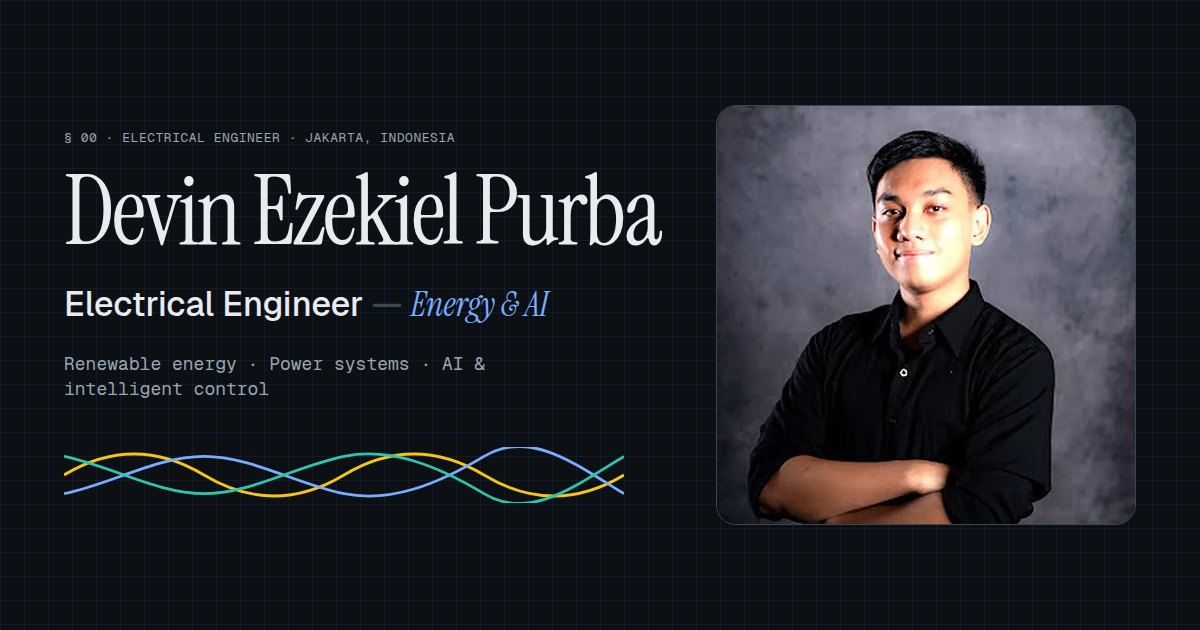
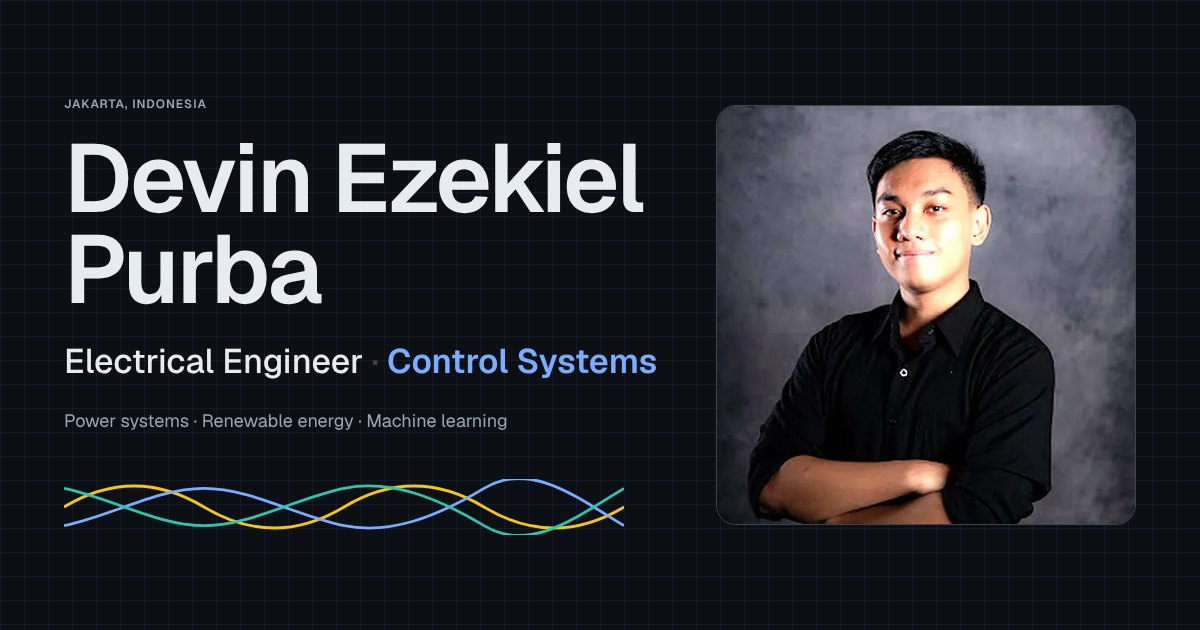
Control systems headline, card crops that cut no text (#14)
Headline is now "Electrical Engineer · Control Systems" with the tagline "Power systems · Renewable energy · Machine learning"; About says he majored in Electrical Engineering with a Control Systems and Automation concentration; link preview regenerated. Card crops no longer cut text and load sharp images; cards show the theme instead of "Client work". Name card links have 24 px targets.

Claude-Session: https://claude.ai/code/session_011Ti8oFmYrut7UsPeqjafuj

diff --git a/website/tests/site.spec.ts b/website/tests/site.spec.ts
@@ -175,6 +175,25 @@ test("project lead figures show the whole image", async ({ page }) => {
   }
 });
 
+test("zoomed card covers load an image wide enough to stay sharp", async ({ page }, info) => {
+  test.skip(info.project.name !== "desktop", "desktop cards at device scale 1");
+  await page.goto("projects/");
+  const covers = page.locator(".card .cover.cropped img");
+  expect(await covers.count()).toBeGreaterThanOrEqual(1);
+  for (const img of await covers.all()) {
+    await img.scrollIntoViewIfNeeded();
+    await img.evaluate((el: HTMLImageElement) => el.decode());
+    // object-fit: cover widens figures wider than the card, then --zoom enlarges them; the file must cover that width.
+    const [natural, drawn] = await img.evaluate((el: HTMLImageElement) => {
+      const zoom = Number(getComputedStyle(el.closest(".cover")!).getPropertyValue("--zoom"));
+      const cover = Math.max(el.offsetWidth, (el.offsetHeight * el.naturalWidth) / el.naturalHeight);
+      return [el.naturalWidth, cover * zoom];
+    });
+    const href = await img.evaluate((el) => el.closest("a")?.getAttribute("href") ?? "");
+    expect(natural, href).toBeGreaterThanOrEqual(drawn * 0.95);
+  }
+});
+
 test("acronyms are expanded once, at first use", async ({ page }) => {
   await page.goto("projects/pumped-storage-dfim-model/");
   await expect(page.locator('abbr:text-is("DFIM")')).toHaveCount(1);

diff --git a/docs/website/03-work-log.md b/docs/website/03-work-log.md
@@ -385,3 +385,21 @@ Research in `docs/card/01-research.md`, build notes in `docs/card/02-build.md` (
   6. Stacked prev/next cards on phones: the right-aligned "Next" title read raggedly over three lines; left-aligned when stacked.
 - **Left as is, for Devin to decide**: some card crops cut a diagram label at the top edge (synchronous condenser, PV, excitation); "Client work" repeats on every card in the Client work section; "My part" appears in the header and again in the datasheet; the graduation photo on Education is about 680 px tall on desktop; the phone footer repeats the whole navigation.
 - **Checks**: check 0 errors; 21 pages; Playwright 94 passed, 4 skipped; `measure.mjs` 0 small text, 0 small targets, 0 em dashes; overflow none at all ten widths; every fix viewed after the change.
+
+## 2026-10-14 · Card crops and card labels
+- **Asked by Devin** after the visual check: fix the card crops that cut labels, and drop the repeated "Client work" label.
+- **Crops**: every client card cover was rendered next to its whole figure with the visible area outlined. Seven of eight cut text at an edge (for example "Plant Controller (RTU)", "Bus PoC", "Terminal bus", "Fault distance"). Each crop is now a 16:9 rectangle drawn in image pixels with all four edges in white space, checked with ink measurements where labels sit close, then converted to `coverFocus` / `coverZoom` (method in the [content model](content-model.md#projects)). The PV figure is already about 16:9 and has no clean rectangle that keeps its controller, so its card shows the whole figure. The data center crop already cut no text and is unchanged.
+- **Sharper crops**: zoomed covers were blurry, most visibly on the excitation limiter card (zoom 2.4). The browser picked a file for the card width, then CSS enlarged it. `ProjectCover` now scales `sizes` by how much wider than the card the crop draws the image. New test: each zoomed cover loads a file at least as wide as it is drawn (fails before: 380 px file for 513 px drawn).
+- **Labels**: client cards said "Client work" under the "Client work" heading. Cards now show the theme for all projects ("Grid studies", "Machine models", "Plant controllers", "AI", "IoT"), in the theme colour, matching the filter chips. The project page eyebrow keeps "Client work · theme".
+- **Checks**: check 0 errors; 21 pages; Playwright 95 passed, 5 skipped; `measure.mjs` on Home and Projects 0 small text, 0 small targets; cards viewed on Projects (desktop light and dark) and Home (phone).
+
+## 2026-10-16 · Headline: control systems specialization
+- **Asked by Devin**: say he is an electrical engineer specializing in control systems, and stop repeating "AI" on the name card (it said "Energy & AI" and then "AI & intelligent control").
+- **`profile.yaml`**: `headlineAccent` "Energy & AI" -> "Control Systems"; `tagline` -> "Power systems · Renewable energy · Machine learning". First bio paragraph now opens "I'm an electrical engineer specializing in control systems. I majored in Electrical Engineering at Universitas Indonesia, concentrating in Control Systems and Automation" (facts as on the CV). Third paragraph says "machine learning, deep learning and reinforcement learning" once instead of "AI, machine learning".
+- **About**: intro "An electrical engineer specializing in control systems, from power grids to machine learning."; page description updated.
+- **Follows automatically**: Home hero, page titles, name card, printable card, vCard note.
+- **Link preview**: `og.jpg` regenerated. Its eyebrow is now the location only, so "Electrical Engineer" no longer appears twice.
+- **Layout**: on phones the Home headline wraps before "Control Systems"; the separator dot is clipped at line starts (same method as the Timeline). The name card drops the dot and stacks the accent below 256 px card width (320 px phones).
+- **Also fixed**: "Download QR" and "Print card" on the name card were 18 px tall, now 24 px. `measure.mjs` did not cover the card by default; it does now.
+- **CV**: unchanged. Its summary already says "Power System Engineer specializing in control systems" and "B.Eng. in Electrical Engineering (Control Systems and Automation, Cum Laude)".
+- **Checks**: check 0 errors; 21 pages; Playwright 95 passed, 5 skipped; `measure.mjs` 0 small text and 0 small targets on all 7 default pages; Home (desktop, phone light and dark), name card (390 px light, 320 px dark), printable card and `og.jpg` viewed.

diff --git a/docs/website/quality.md b/docs/website/quality.md
@@ -46,6 +46,7 @@ Two projects: `desktop` (1280 × 900) and `mobile` (Pixel 7). CI retries once.
 | Lead figures show the whole image | R16 |
 | The datasheet never covers the figures or the story (desktop) | Scrolls a project page at 1280 × 900 and 1920 × 1200 and fails on any overlap of the datasheet with other content (bug found 2026-10-14) |
 | Pages fit a 320 px phone (phone only) | No sideways scroll on Home, Experience, a project page and the name card at 320 px; compares with 320, because a phone browser widens its layout viewport to fit wide content (bug found 2026-10-14) |
+| Zoomed card covers stay sharp (desktop) | Each cropped card cover loads a file at least as wide as it is drawn after `cover` and zoom (blur found 2026-10-14) |
 | Acronyms expanded once, at first use | R13 |
 | Home features four client case studies | `featured` and `order` |
 | Instrument trips, reports a nadir, settles | Demo behaviour; reduced-motion variant |
@@ -53,7 +54,7 @@ Two projects: `desktop` (1280 × 900) and `mobile` (Pixel 7). CI retries once.
 | Unknown pages show the 404 page | |
 | Name card links and scannable QR | Contact links, WhatsApp URL, QR dialog, SVG download |
 
-Last result: 94 passed, 4 skipped (the skips are the device-specific tests on the other project).
+Last result: 95 passed, 5 skipped (the skips are the device-specific tests on the other project).
 
 ## Scripts (`website/scripts/`)
 
@@ -61,7 +62,7 @@ Last result: 94 passed, 4 skipped (the skips are the device-specific tests on th
 |---|---|---|
 | `figures.mjs [--fix]` | Fails if a PNG in `src/assets/projects/` carries metadata chunks (draw.io embeds its editable source) or if an SVG figure exists; `--fix` keeps image chunks only | nothing |
 | `shots.mjs <dir> [pages]` | Full-page screenshots: desktop light, desktop dark, phone; reports overflow and page errors | running preview |
-| `measure.mjs [pages]` | At 390 px: text under 12 px, targets under 24 × 24 px, uppercase labels, em dashes | running preview |
+| `measure.mjs [pages]` | At 390 px: text under 12 px, targets under 24 × 24 px, uppercase labels, em dashes. Default pages include the name card since 2026-10-16 | running preview |
 | `make-og.mjs` | Screenshots `/og-card/` to `public/og.png` (and `og.jpg` with Pillow) | running preview |
 
 Pages for `shots.mjs` and `measure.mjs` are comma-separated paths; use `home` for the home page.

diff --git a/docs/website/content-model.md b/docs/website/content-model.md
@@ -53,7 +53,7 @@ All content is plain files, validated by Zod schemas in `website/src/content.con
 | `title` | string | Card and page H1 |
 | `category` | theme | Main filter chip. Themes from `lib/themes.ts`: `controllers` (Plant controllers), `machines` (Machine models), `grid` (Grid studies), `ai` (AI), `iot` (IoT) |
 | `also` | list of themes | Extra chips |
-| `kind` | `professional` \| `academic` | Client work is listed first and labelled "Client work" |
+| `kind` | `professional` \| `academic` | Client work is listed first, under the "Client work" heading; the project page eyebrow says "Client work". Cards show the theme (`category`) instead |
 | `order` | integer | Client work 1 to 8, academic 20 and up |
 | `featured` | boolean | Home "Selected work" takes the first four by `order` |
 | `context` | string | Datasheet "Context" |
@@ -65,7 +65,7 @@ All content is plain files, validated by Zod schemas in `website/src/content.con
 | `facts` | list of `label`, `value` | Datasheet "Key facts", 3 to 5 |
 | `links` | list of `label`, `href` | For example source code |
 | `figures` | list of `src` (path relative to the `.md` file), `alt`, `caption` | First is the cover and lead figure. PNG only, metadata stripped |
-| `coverFocus`, `coverZoom` | CSS `object-position`, number 1 to 3 | Card crop only; the page shows the whole figure |
+| `coverFocus`, `coverZoom` | CSS `object-position`, number 1 to 3 | Card crop only; the page shows the whole figure. The crop must not cut any text: draw a 16:9 rectangle (x0, y0, w) in image pixels whose edges fall in white space, then `coverFocus` = x0 / (W − w), y0 / (H − h) and `coverZoom` = (cover width at zoom 1) / w, where the cover width is W, or H × 16/9 for figures wider than 16:9. Leave both out when no clean rectangle exists (the card then shows the whole figure) |
 
 The Markdown body follows Problem / Approach / Result. Client case studies use "What we did" and "How we checked it".
 

diff --git a/docs/website/architecture.md b/docs/website/architecture.md
@@ -46,8 +46,8 @@ Astro 7 static site with TypeScript. Every page is pre-rendered at build time; t
 | `PageHead` | Page H1, intro and a `Schematic` ornament |
 | `SectionHead` | Section H2 with an optional note |
 | `Photo` | Responsive `<Picture>` (AVIF/WebP) with optional caption |
-| `ProjectCard` | Card on Home and Projects: cover, kind label, year, title, blurb, stack |
-| `ProjectCover` | First figure cropped by `coverFocus` / `coverZoom` on cards, else `ProjectArt` |
+| `ProjectCard` | Card on Home and Projects: cover, theme label (in the theme tone), year, title, blurb, stack |
+| `ProjectCover` | First figure cropped by `coverFocus` / `coverZoom` on cards, else `ProjectArt`. Scales `sizes` by how much wider than the card a crop draws the image, so the browser loads a sharp file |
 | `ProjectArt` | Seeded SVG illustration by domain (energy, AI, IoT) for projects without figures |
 | `Schematic` | Decorative SVG ornaments (grid, turbine, solar, neural, circuit) |
 | `Timeline` | Filterable, expandable entries for Experience and Education |

diff --git a/docs/project/sources-of-truth.md b/docs/project/sources-of-truth.md
@@ -16,7 +16,7 @@ Every fact about Devin lives in one primary place. Some facts are repeated in a 
 | Field | Shown on |
 |---|---|
 | `name`, `givenNames`, `familyName`, `initials` | Home hero, About, footer, name card, print card, vCard, OG card, page titles and meta tags |
-| `headline`, `headlineAccent`, `tagline` | Home hero, page titles, vCard note, OG card |
+| `headline`, `headlineAccent`, `tagline` | Home hero, page titles, name card, vCard note, OG card. Today: "Electrical Engineer" · "Control Systems"; tagline "Power systems · Renewable energy · Machine learning". Keep "AI" out of these three: the Skills domain and the bio already carry it, and one phrase per idea reads stronger |
 | `role`, `org` | About "Role" line, name card, print card, vCard `TITLE` / `ORG`. Update when the job changes |
 | `focus` | Home status line ("Learning across ...") and the Home meta description |
 | `city`, `country`, `timezone`, `coordinates` | Hero eyebrow, About, footer clock, vCard address |

diff --git a/docs/card/reference.md b/docs/card/reference.md
@@ -22,7 +22,7 @@ Linked from the footer, the About page and the command palette.
 
 ## Data
 
-Everything comes from `website/src/data/profile.yaml` (`name`, `givenNames`, `familyName`, `role`, `org`, `email`, `phone`, `city`, `country`, `links`, `headline`, `headlineAccent`, `tagline`) and the portrait in `website/src/assets/photos/portrait.jpg`. WhatsApp uses `https://wa.me/<phone without + and spaces>`.
+Everything comes from `website/src/data/profile.yaml` (`name`, `givenNames`, `familyName`, `role`, `org`, `email`, `phone`, `city`, `country`, `links`, `headline`, `headlineAccent`, `tagline`) and the portrait. On cards narrower than about 256 px the accent ("Control Systems") moves to its own line without the separator dot (container query in `card/index.astro`) in `website/src/assets/photos/portrait.jpg`. WhatsApp uses `https://wa.me/<phone without + and spaces>`.
 
 ## QR
 

diff --git a/docs/website/design-system.md b/docs/website/design-system.md
@@ -63,5 +63,6 @@ Page transitions: `lib/transitions.ts` (200 ms out, 360 ms in). Every animation 
 - Readouts and empty values use "–" (en dash), never an em dash (R17).
 - Inline meta rows ("dates · duration · type") never start a line with a separator dot: the Timeline clips line-start dots.
 - Uppercase labels must not change meaning: write "Frequency", not the symbol f, which would show as F.
-- Project figures always show whole on the project page (R16). Cards may crop (R1).
+- Project figures always show whole on the project page (R16). Cards may crop (R1), but a crop never cuts text: its edges fall in white space ([content model](content-model.md#projects)). Lines may run off the edge.
+- Card labels name the theme, not the kind: the section heading already says "Client work".
 - Uppercase labels kept low (Home 9, Experience 5 on 2026-10-14).

diff --git a/docs/project/runbooks.md b/docs/project/runbooks.md
@@ -22,7 +22,7 @@ cd website
 npm run check                 # astro check (types, content schemas) + figure metadata guard
 npm run build                 # 21 pages expected today
 npx astro preview --port 4321 &   # tests reuse a running preview
-npm test                      # Playwright, desktop and phone (94 passed, 4 skipped today)
+npm test                      # Playwright, desktop and phone (95 passed, 5 skipped today)
 node scripts/shots.mjs <scratch>/shots "home,projects/,projects/<slug>/"   # desktop light/dark + phone
 node scripts/measure.mjs      # no text < 12 px, no target < 24 px, uppercase labels, em dashes
 cd .. && node scripts/graph.mjs --check

diff --git a/CLAUDE.md b/CLAUDE.md
@@ -33,7 +33,7 @@ Devin Ezekiel Purba's professional profile: a **website** (Astro 7, `website/`),
 cd website && npm ci                      # once
 npm run check && npm run build            # types, content schemas, figure metadata; 21 pages
 npx astro preview --port 4321 &           # then:
-npm test                                  # Playwright desktop + phone (94 passed, 4 skipped)
+npm test                                  # Playwright desktop + phone (95 passed, 5 skipped)
 node scripts/shots.mjs <scratch> "home,projects/"   # screenshots; node scripts/measure.mjs for sizes
 cd .. && node scripts/graph.mjs --check   # docs and graph up to date
 ```

diff --git a/docs/graph/README.md b/docs/graph/README.md
@@ -57,7 +57,7 @@ grep '"website/src/lib/url.ts"' docs/graph/graph.json   # raw lines, one node or
 | Edge type | Count | Meaning |
 |---|---|---|
 | `imports` | 127 | Code import (file or npm package) |
-| `links` | 121 | Doc links to a file or folder |
+| `links` | 123 | Doc links to a file or folder |
 | `documents` | 75 | Doc explains a file or folder (front matter covers) |
 | `built_from` | 31 | Output made from a source |
 | `affects` | 26 | Decision shaped a path |

diff --git a/website/src/content/projects/synchronous-condenser-model.md b/website/src/content/projects/synchronous-condenser-model.md
@@ -1,11 +1,11 @@
 ---
 title: Synchronous Condenser Model and Automated Test Bench
 category: machines
+coverFocus: "5.2% 86.9%"
+coverZoom: 1.22
 kind: professional
 order: 3
 featured: true
-coverFocus: "8% 62%"
-coverZoom: 1.15
 context: Client project, model for grid connection
 start: "2026"
 blurb: A grid model of a spinning machine that steadies voltage without making power, checked against the manufacturer's model in 163 automated test cases.
